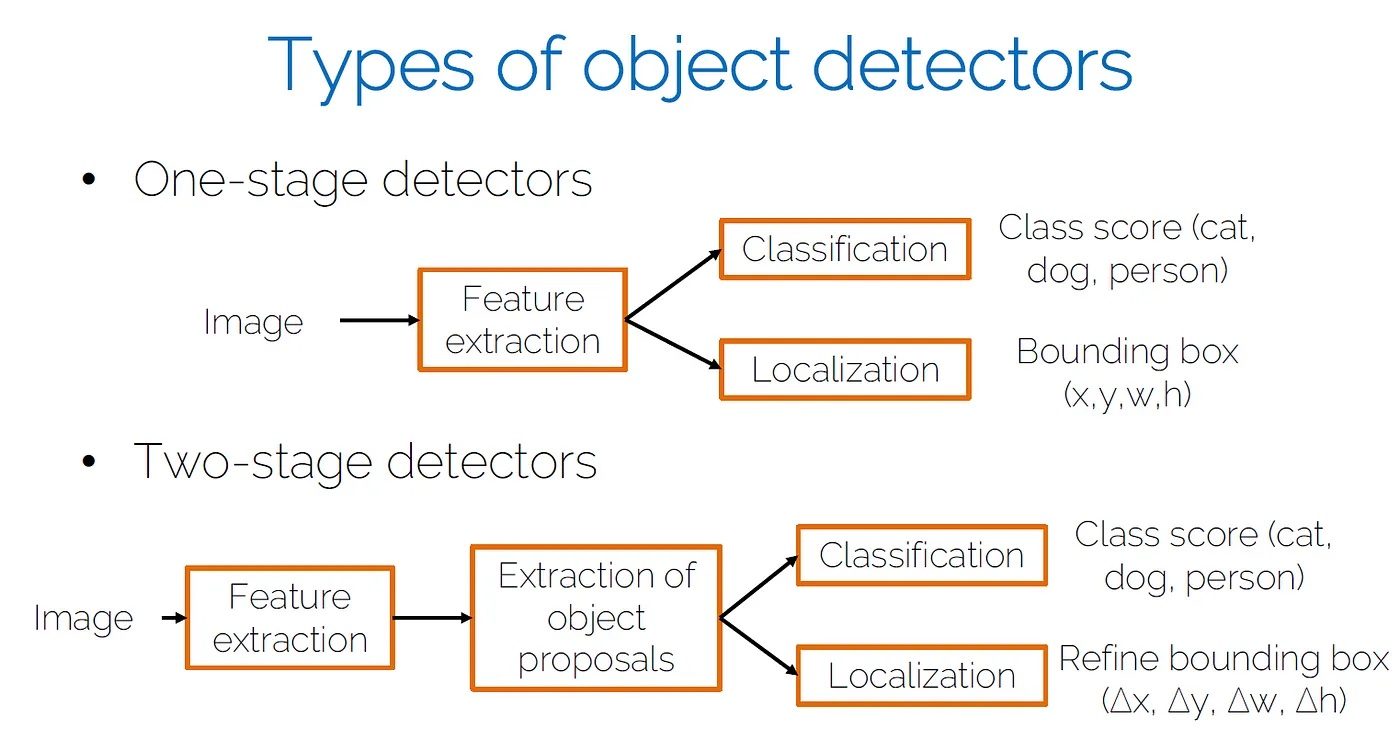
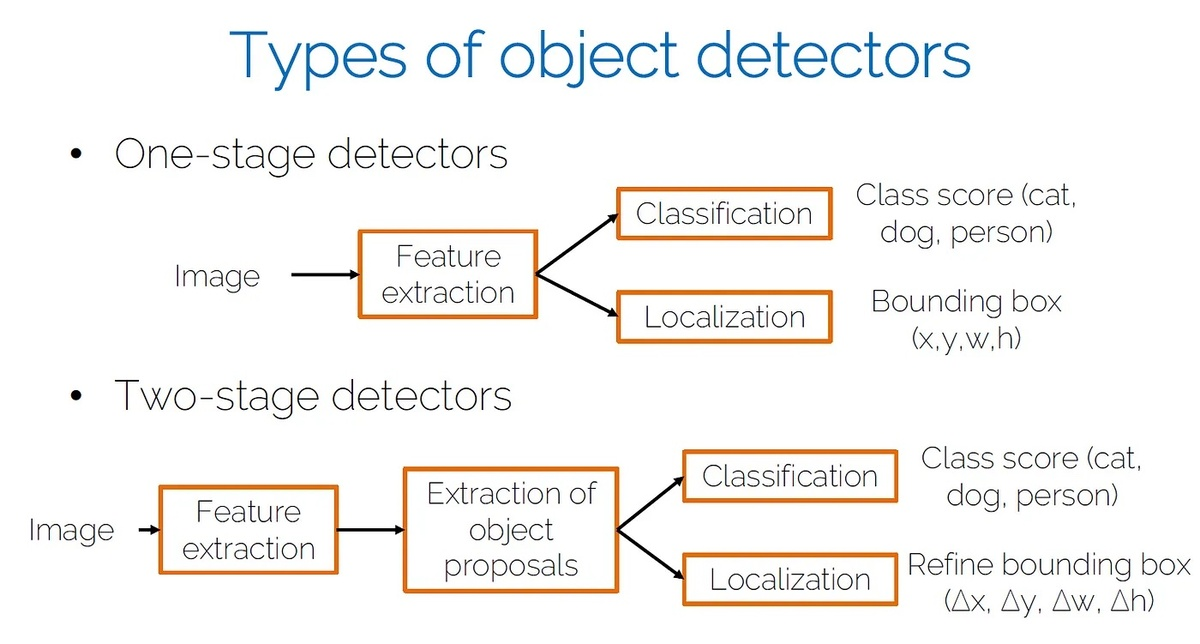
image resize

diff --git a/src/components/About-Work.tsx b/src/components/About-Work.tsx
@@ -4,9 +4,9 @@ import TextImageRowComponent from './TextImageRowComponent';
 import euroingroImage from '../assets/images/about/euroingro.jpeg';
 import unicreditImage from '../assets/images/about/unicredit.jpeg';
 import amazonImage from '../assets/images/about/amazon.jpg';
-import ecobambuImage from '../assets/images/about/ecobambu.png';
-import decenergyImage from '../assets/images/about/decenergy.png';
-import articulateaiImage from '../assets/images/about/articulateai.png';
+import ecobambuImage from '../assets/images/about/ecobambu.jpg';
+import decenergyImage from '../assets/images/about/decenergy.jpg';
+import articulateaiImage from '../assets/images/about/articulateai.jpg';
 import mathworksImage from '../assets/images/about/mathworks.jpg';
 import DescriptionSkillsSection from './About-Work-DescriptionSkillsSection';
 

diff --git a/src/pages/articles/HumanActivityRecognitionUsingObjectDetection.tsx b/src/pages/articles/HumanActivityRecognitionUsingObjectDetection.tsx
@@ -1,12 +1,12 @@
 import React from 'react';
 import styles from '../../css/articles/GeneralArticle.module.scss';
-import image1 from '../../assets/images/articles/1.png';
+import image1 from '../../assets/images/articles/1.jpg';
 import image2 from '../../assets/images/articles/2.jpg';
 import image3 from '../../assets/images/articles/3.jpg';
 import image4 from '../../assets/images/articles/4.jpg';
 import image5 from '../../assets/images/articles/5.jpg';
-import image6 from '../../assets/images/articles/6.png';
-import image7 from '../../assets/images/articles/7.png';
+import image6 from '../../assets/images/articles/6.jpg';
+import image7 from '../../assets/images/articles/7.jpg';
 import image8 from '../../assets/images/articles/8.jpg';
 
 // Define the component with React.FC (React Functional Component)

diff --git a/src/components/About-Project.tsx b/src/components/About-Project.tsx
@@ -2,9 +2,9 @@ import React from 'react';
 import baseStyles from '../css/base.module.scss'
 import styles from '../css/About-Project.module.scss'
 import TextImageRowComponent from './TextImageRowComponent';
-import ecobambuImage from '../assets/images/about/ecobambu.png';
-import liveStreamingImage from '../assets/images/about/livestreaming.png';
-import realgesturexImage from '../assets/images/about/realgesturex.png';
+import ecobambuImage from '../assets/images/about/ecobambu.jpg';
+import liveStreamingImage from '../assets/images/about/livestreaming.jpg';
+import realgesturexImage from '../assets/images/about/realgesturex.jpg';
 import DescriptionSkillsSection from './About-Work-DescriptionSkillsSection';
 import realGestureXReport from '../assets/pdf/RealGestureX-Report.pdf'
 const projects = [

diff --git a/src/pages/articles/RealGestureX.tsx b/src/pages/articles/RealGestureX.tsx
@@ -1,9 +1,9 @@
 import React from 'react';
 import styles from '../../css/articles/GeneralArticle.module.scss';
-import image9 from '../../assets/images/articles/9.png';
-import image10 from '../../assets/images/articles/10.png';
-import image11 from '../../assets/images/articles/11.png';
-import image12 from '../../assets/images/articles/12.png';
+import image9 from '../../assets/images/articles/9.jpg';
+import image10 from '../../assets/images/articles/10.jpg';
+import image11 from '../../assets/images/articles/11.jpg';
+import image12 from '../../assets/images/articles/12.jpg';
 import realGestureXReport from '../../assets/pdf/RealGestureX-Report.pdf'
 
 // Define the component with React.FC (React Functional Component)

diff --git a/src/components/About-Education.tsx b/src/components/About-Education.tsx
@@ -4,7 +4,7 @@ import styles from '../css/About-Education.module.scss'
 import baseStyles from '../css/base.module.scss'
 import dagomariImage from '../assets/images/about/dagomari.jpeg';
 import bocconiImage from '../assets/images/about/bocconi.jpg';
-import nusImage from '../assets/images/about/nus.png';
+import nusImage from '../assets/images/about/nus.jpg';
 import columbiaImage from '../assets/images/about/columbia.jpg';
 import thesis from '../assets/pdf/thesis.pdf'
 

diff --git a/src/components/Home-Introduction.tsx b/src/components/Home-Introduction.tsx
@@ -1,7 +1,7 @@
 import React from 'react';
 import CustomButton from './CustomButton';
 import styles from '../css/Home-Introduction.module.scss';
-import profileLightImage from '../assets/images/home.png';
+import profileLightImage from '../assets/images/home.svg';
 import profileDarkImage from '../assets/images/home-dark.png';
 import { useNavigate } from 'react-router-dom';
 import { useTheme } from './ThemeContext';
